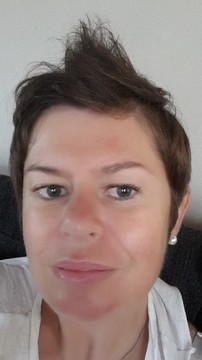
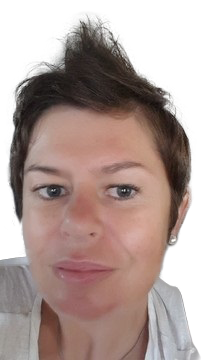
added png images of client

diff --git a/src/app/home/home.component.scss b/src/app/home/home.component.scss
@@ -13,7 +13,7 @@ q {
 
 .banner {
   display: flex;
-  height: 100vh;
+  height: 95vh;
   overflow: hidden;
 
   @media screen and (min-width: 1441px) {
@@ -22,6 +22,10 @@ q {
 
   @media screen and (max-width: 1024px) and (min-width: 620px) {
     height: 50rem;
+  }
+
+  @media screen and (max-width: 480px) {
+    height: 90vh;
   }
 
   &--text {
@@ -40,9 +44,11 @@ q {
       height: calc(#{$base-size} * 1.3);
       width: 100%;
       z-index: -1;
+      margin-top: calc(#{$base-size} / 10);
 
       @media screen and (max-width: 480px) {
         height: calc(#{$base-size} * 0.6);
+        margin-top: 0;
       }
     }
     &_border {
@@ -50,7 +56,7 @@ q {
       &:after {
         content: "";
         position: absolute;
-        top: 10%;
+        top: 15%;
         left: 50%;
         transform: translateX(-50%);
         height: $base-size;
@@ -77,7 +83,7 @@ q {
       }
     }
     &_model {
-      background: url(/assets/images/client-1.jpg) center/contain no-repeat;
+      background: url(/assets/images/client-1.png) center/contain no-repeat;
       height: calc(#{$base-size - 10} * 1.9);
       width: 100%;
       z-index: 1;
@@ -87,8 +93,8 @@ q {
       transform: translateX(-50%);
 
       @media screen and (max-width: 480px) {
-        height: calc(#{$base-size - 18} * 1);
-        left: 38%;
+        height: calc(#{$base-size} * 1);
+        // left: 38%;
       }
     }
   }

diff --git a/src/app/whoisjude/whoisjude.component.scss b/src/app/whoisjude/whoisjude.component.scss
@@ -13,7 +13,7 @@
     transform-origin: bottom;
     -webkit-transform: scale(1.5);
     transform: scale(1);
-    border: 1px solid #d1d2cf;
+    // border: 1px solid #d1d2cf;
     margin-top: 8px;
     border-radius: 3px;
   }

diff --git a/src/app/videosection/videosection.component.html b/src/app/videosection/videosection.component.html
@@ -1,4 +1,4 @@
-<div class="h-gutter-small d-lg-none"></div>
+<div class="h-gutter-small d-none d-md-block d-lg-none"></div>
 <!-- 
 <div class="index-video-wrapper">
   <div class="embed-responsive embed-responsive-16by9">
